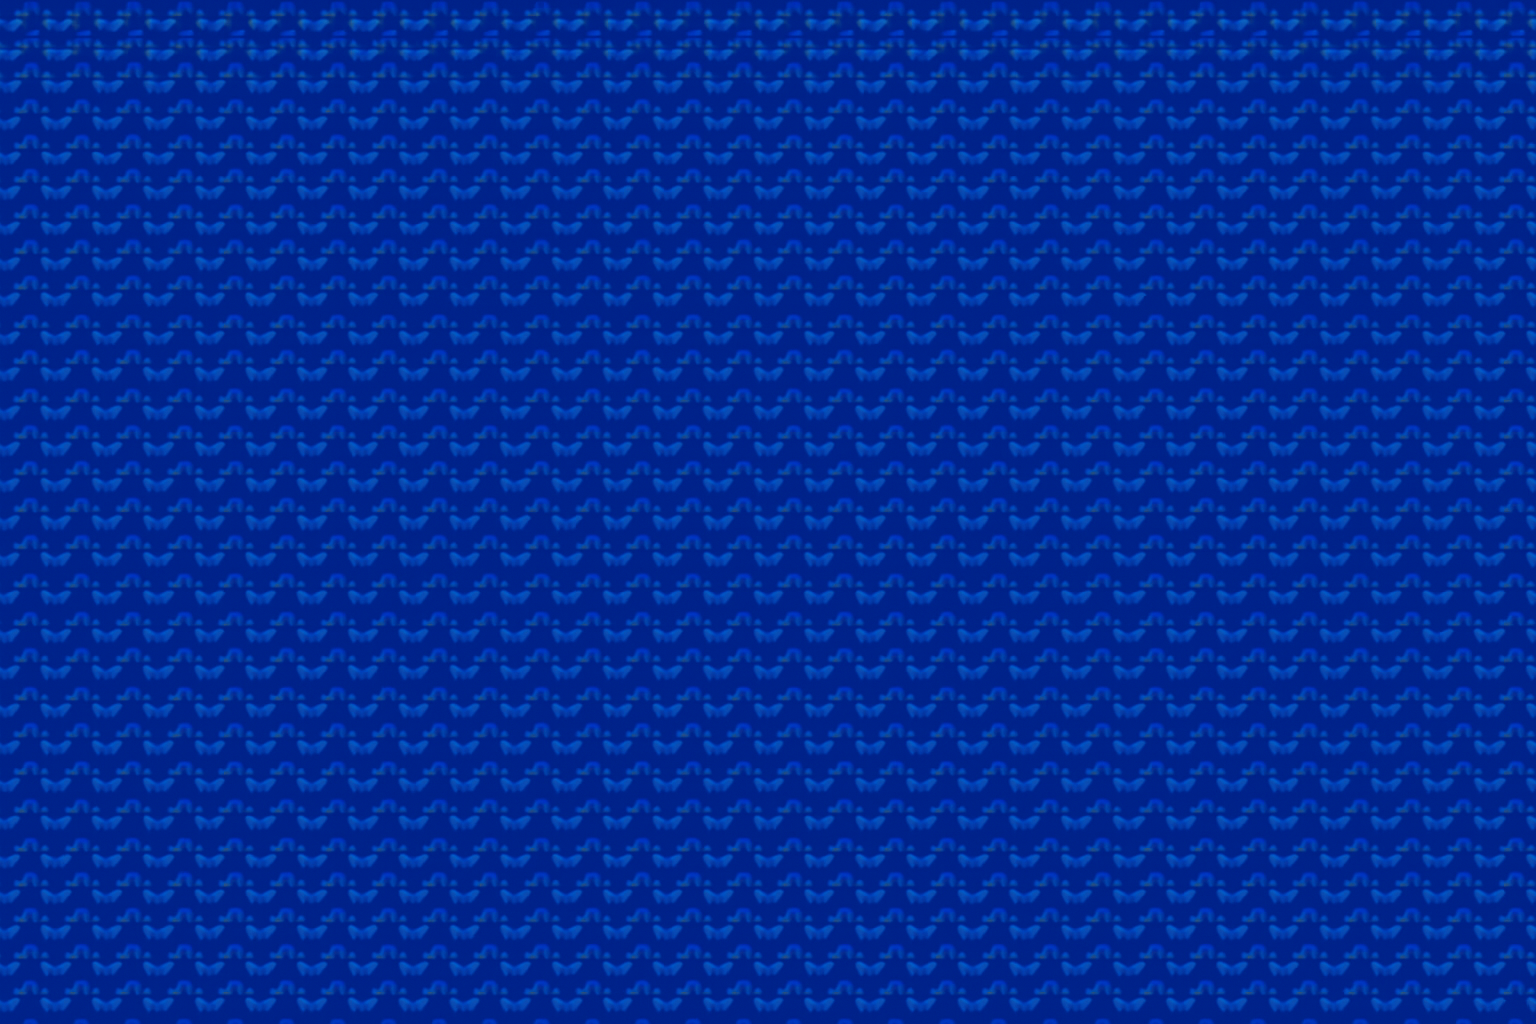
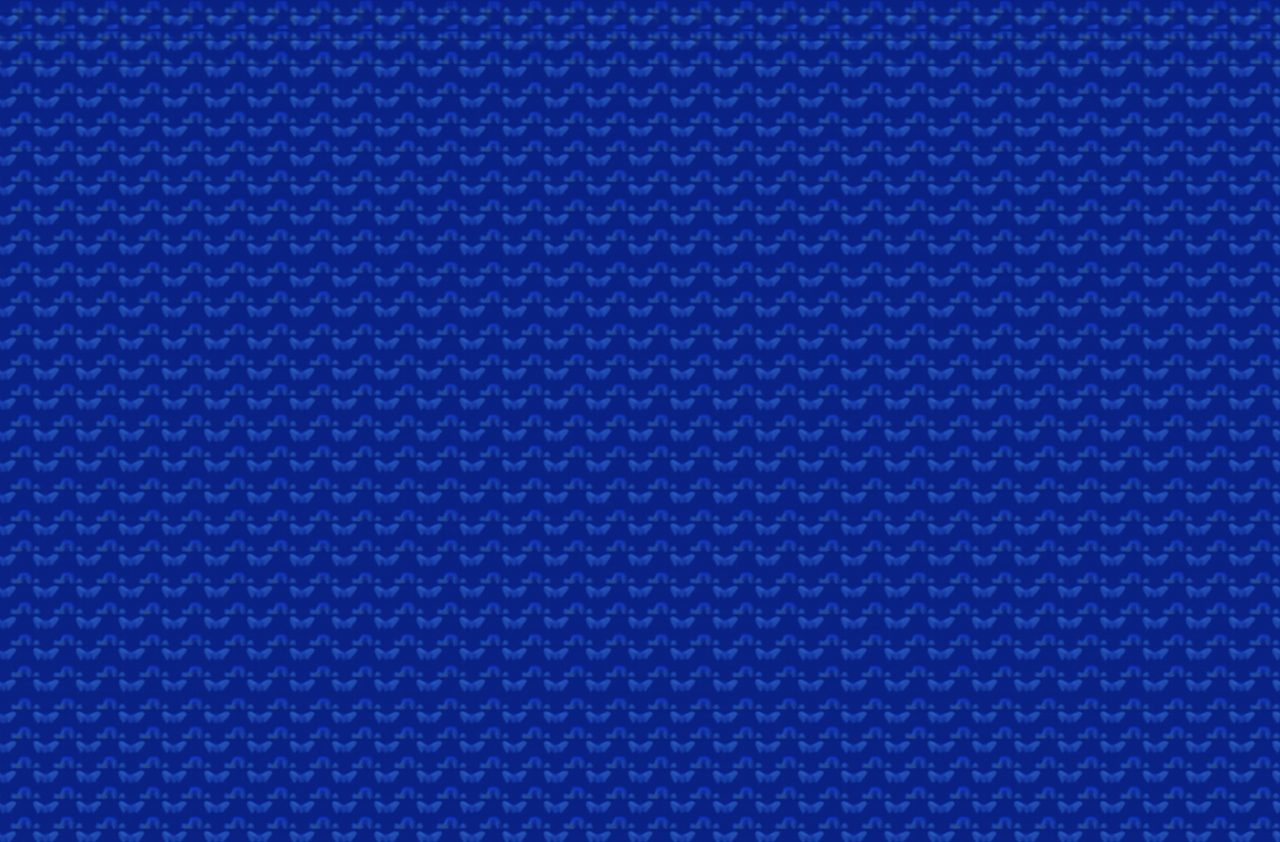
background_scrolling

Changed region(s): [[0.0, 0.0926, 1.0, 1.0]]

diff --git a/Engine.py b/Engine.py
@@ -15,10 +15,16 @@ print(os.getcwd())
 pygame.init()
 
 #Screen
-screen = pygame.display.set_mode((1280, 720))
+screen_width = 1280
+screen_height = 720
+screen = pygame.display.set_mode((screen_width, screen_height))
 
 #Background
-background = pygame.image.load("Image/Backgrounds.png")
+background = pygame.image.load("Image/Backgrounds.png").convert()
+background_height = background.get_height()
+
+tiles = math.ceil(screen_height / background_height) + 1
+scroll = 0
 
 #Start & Exir Button
 startImg = pygame.image.load("Image/Start.png").convert_alpha()
@@ -112,7 +118,12 @@ while running:
         screen.fill((80, 80, 250))
 
         #Background
-        screen.blit(background, (0, 0))
+        for i in range(tiles):
+            screen.blit(background, (0, -((i * background_height)) + scroll))
+
+        scroll += 0.3
+        if scroll > background_height - 100:
+            scroll = 0
 
         for event in pygame.event.get():
 
